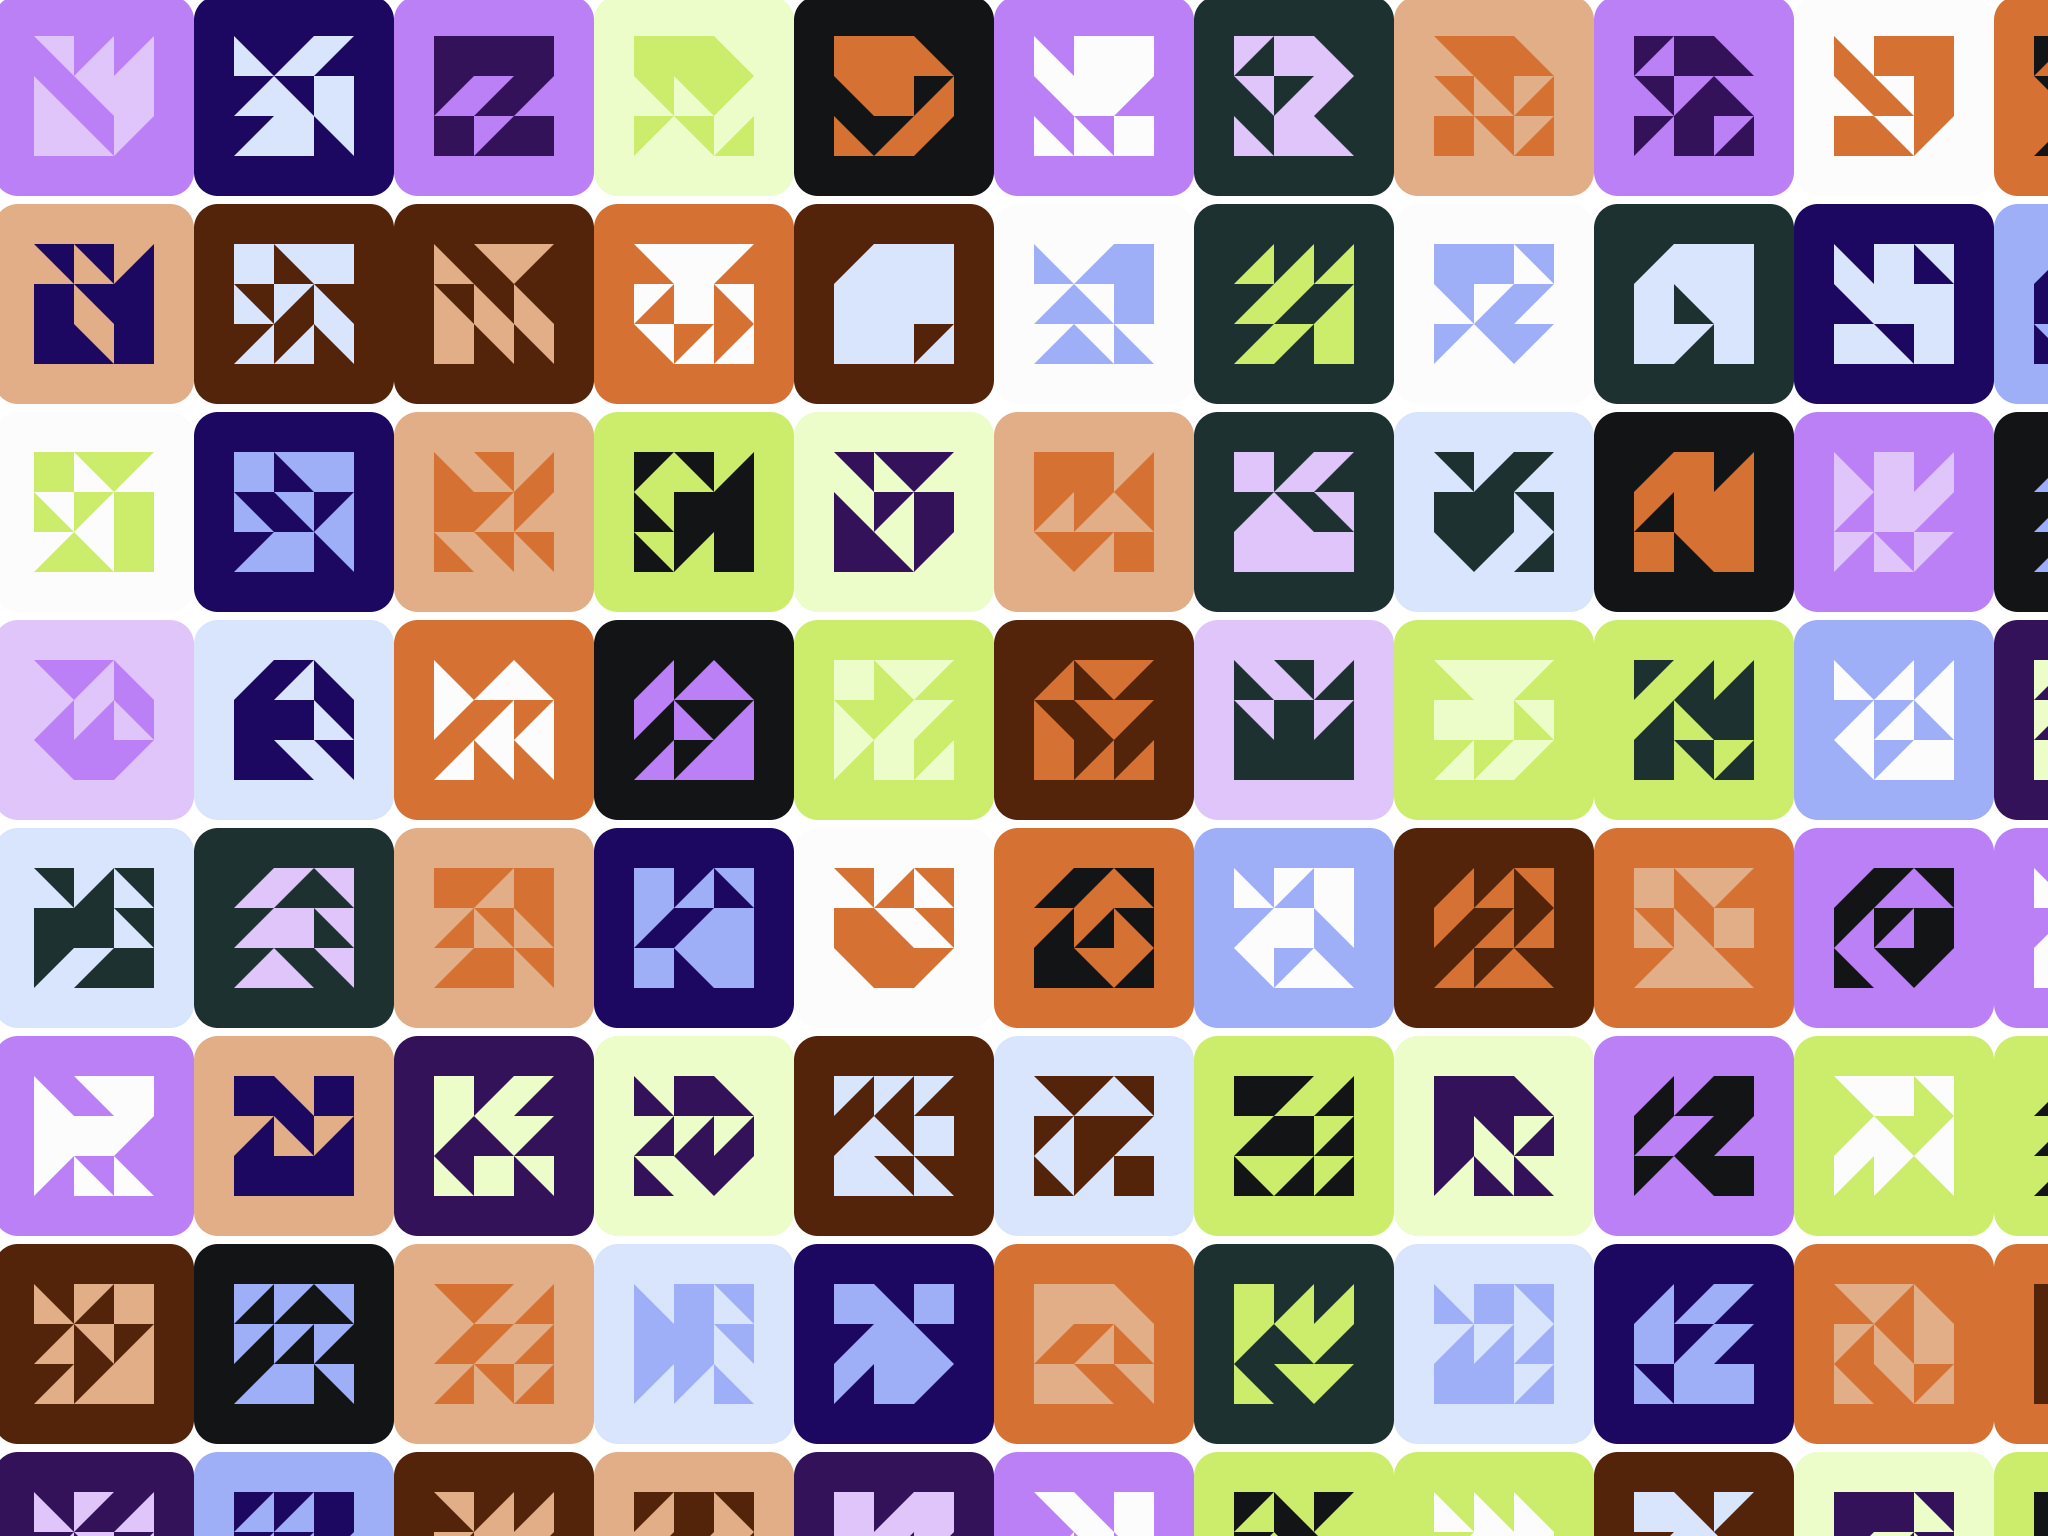
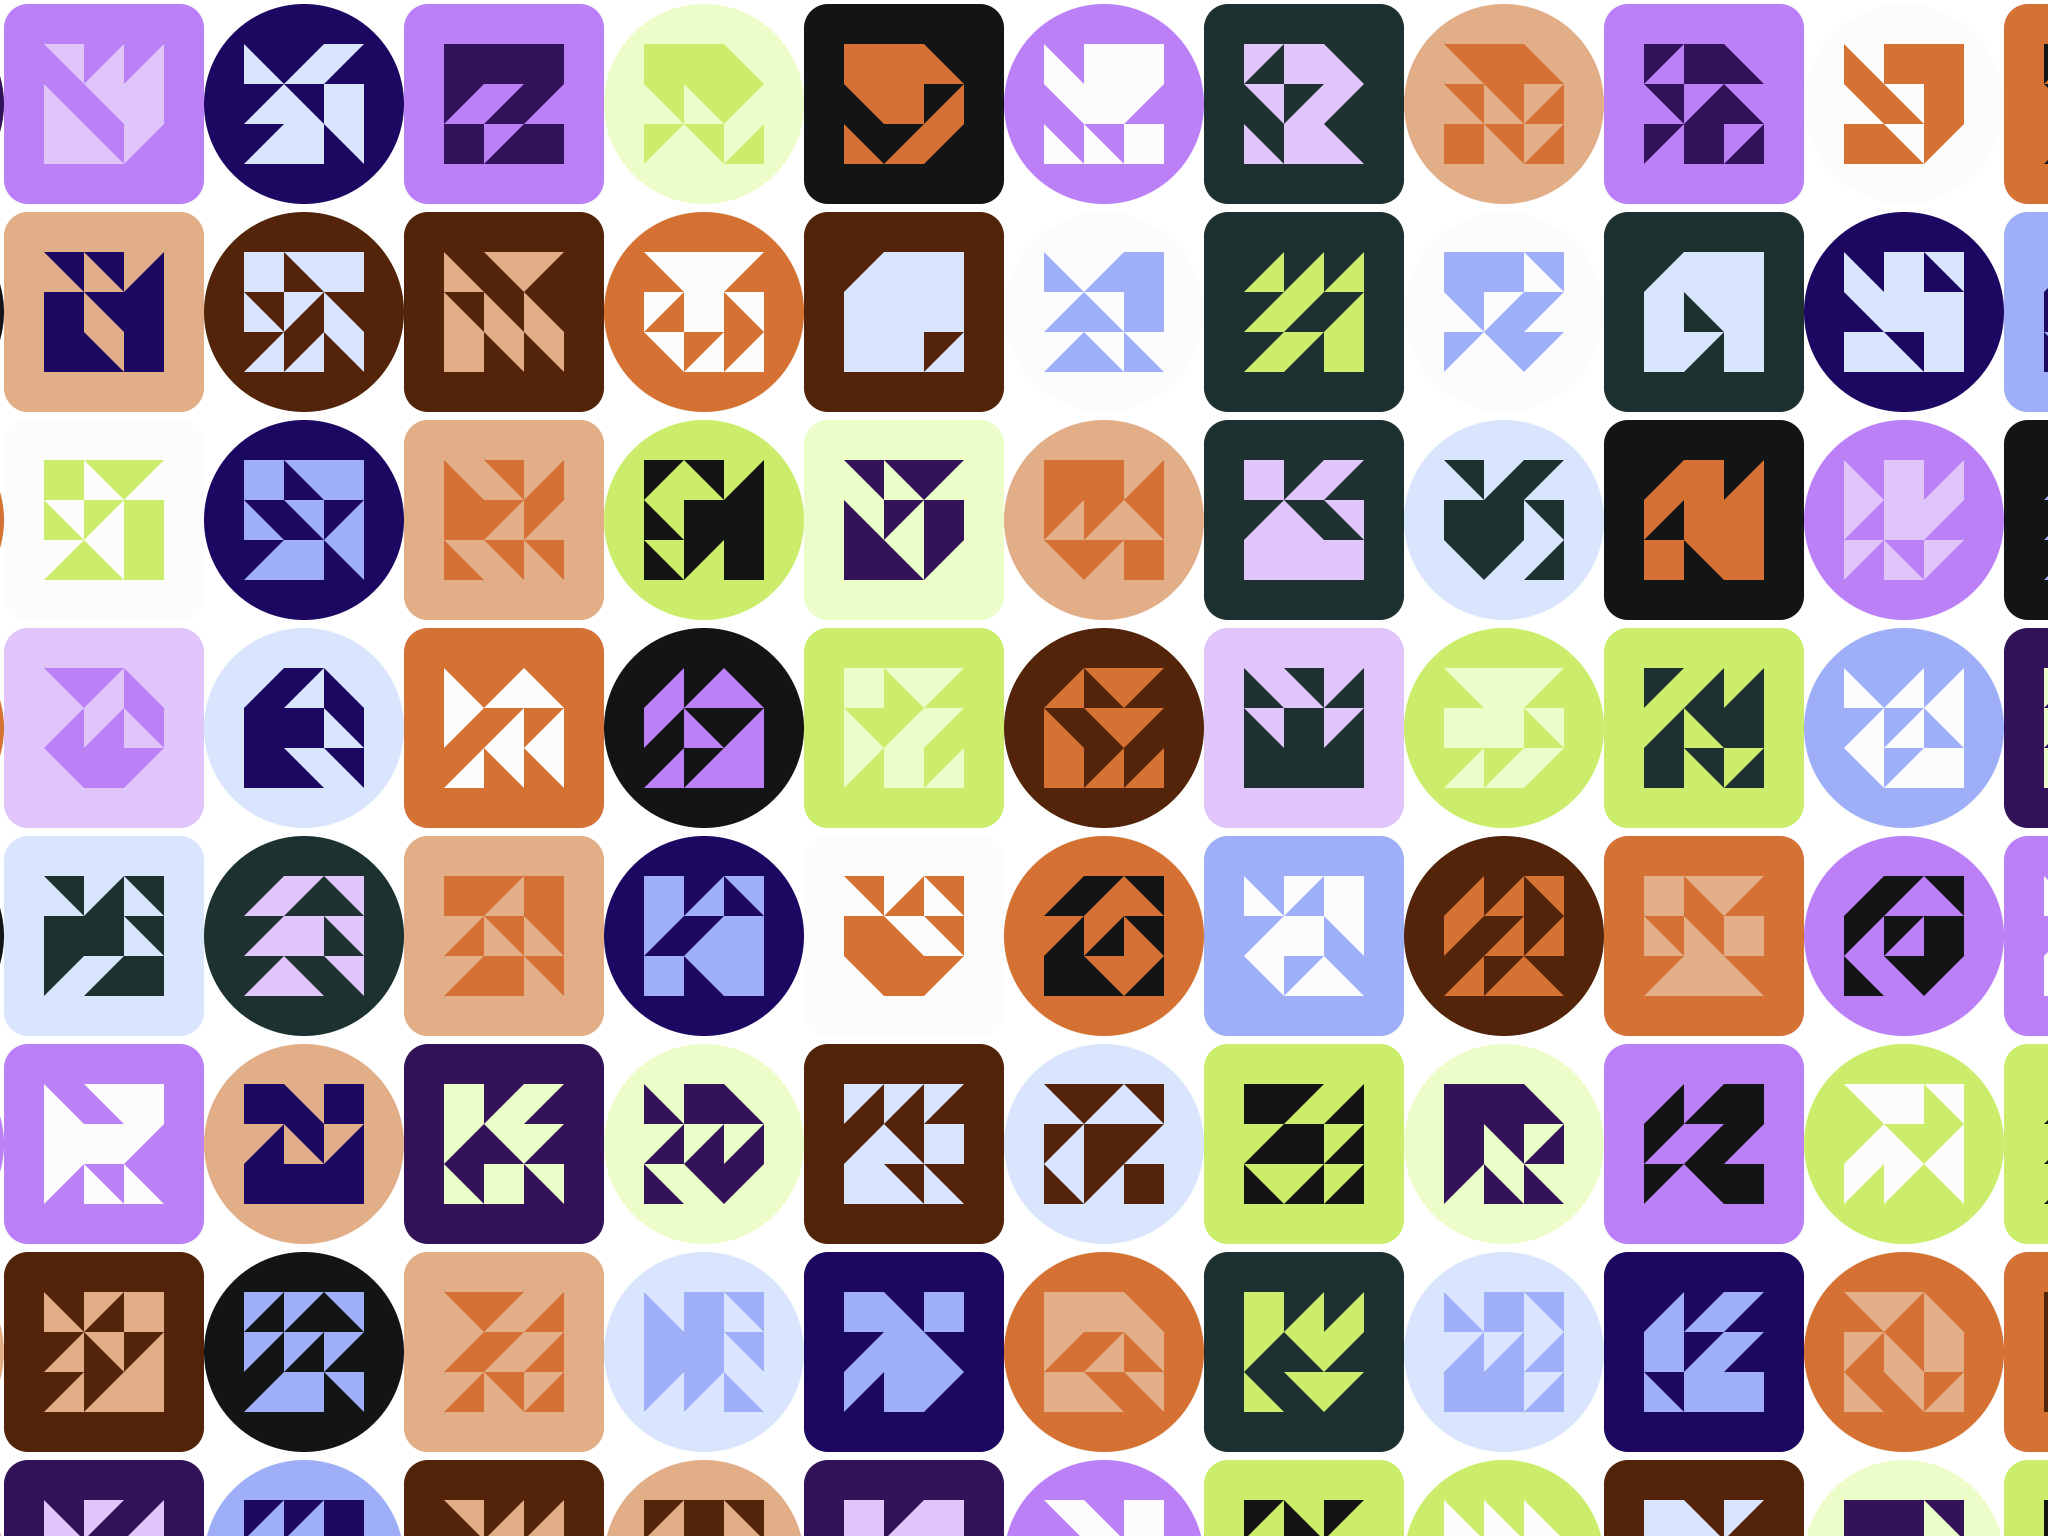
Add circle clip

diff --git a/index.js b/index.js
@@ -1,4 +1,4 @@
-function generateIdenticon(size, seed) {
+function generateIdenticon(size, seed, circle = false) {
   const svgns = 'http://www.w3.org/2000/svg'
   const svg = document.createElementNS(svgns, 'svg')
   svg.setAttributeNS(null, 'x', '0')
@@ -174,5 +174,18 @@ const complementaryPairs = [
 
   path.setAttribute('d', pathData)
   svg.appendChild(path)
+
+
+  if(circle) {
+    const clipPath = document.createElementNS(svgns, 'clipPath')
+    clipPath.setAttribute('id', 'circle-clip')
+    const circleClip = document.createElementNS(svgns, 'circle')
+    circleClip.setAttribute('cx', size/2)
+    circleClip.setAttribute('cy', size/2)
+    circleClip.setAttribute('r', size/2)
+    clipPath.appendChild(circleClip)
+    svg.appendChild(clipPath)
+    svg.setAttribute('clip-path', 'url(#circle-clip)')
+  }
   return svg
 }

diff --git a/demo/main.js b/demo/main.js
@@ -1,7 +1,8 @@
 const jazzicon = generateIdenticon; 
 
-var body = document.querySelector('body')
-for(var i = 0; i < 600; i++) {
-  var el = jazzicon(100, i)
+const body = document.querySelector('body')
+for(let i = 0; i < 600; i++) {
+  const circle = i % 2 === 0;
+  const el = jazzicon(100, i, circle)
   body.appendChild(el)
 }
